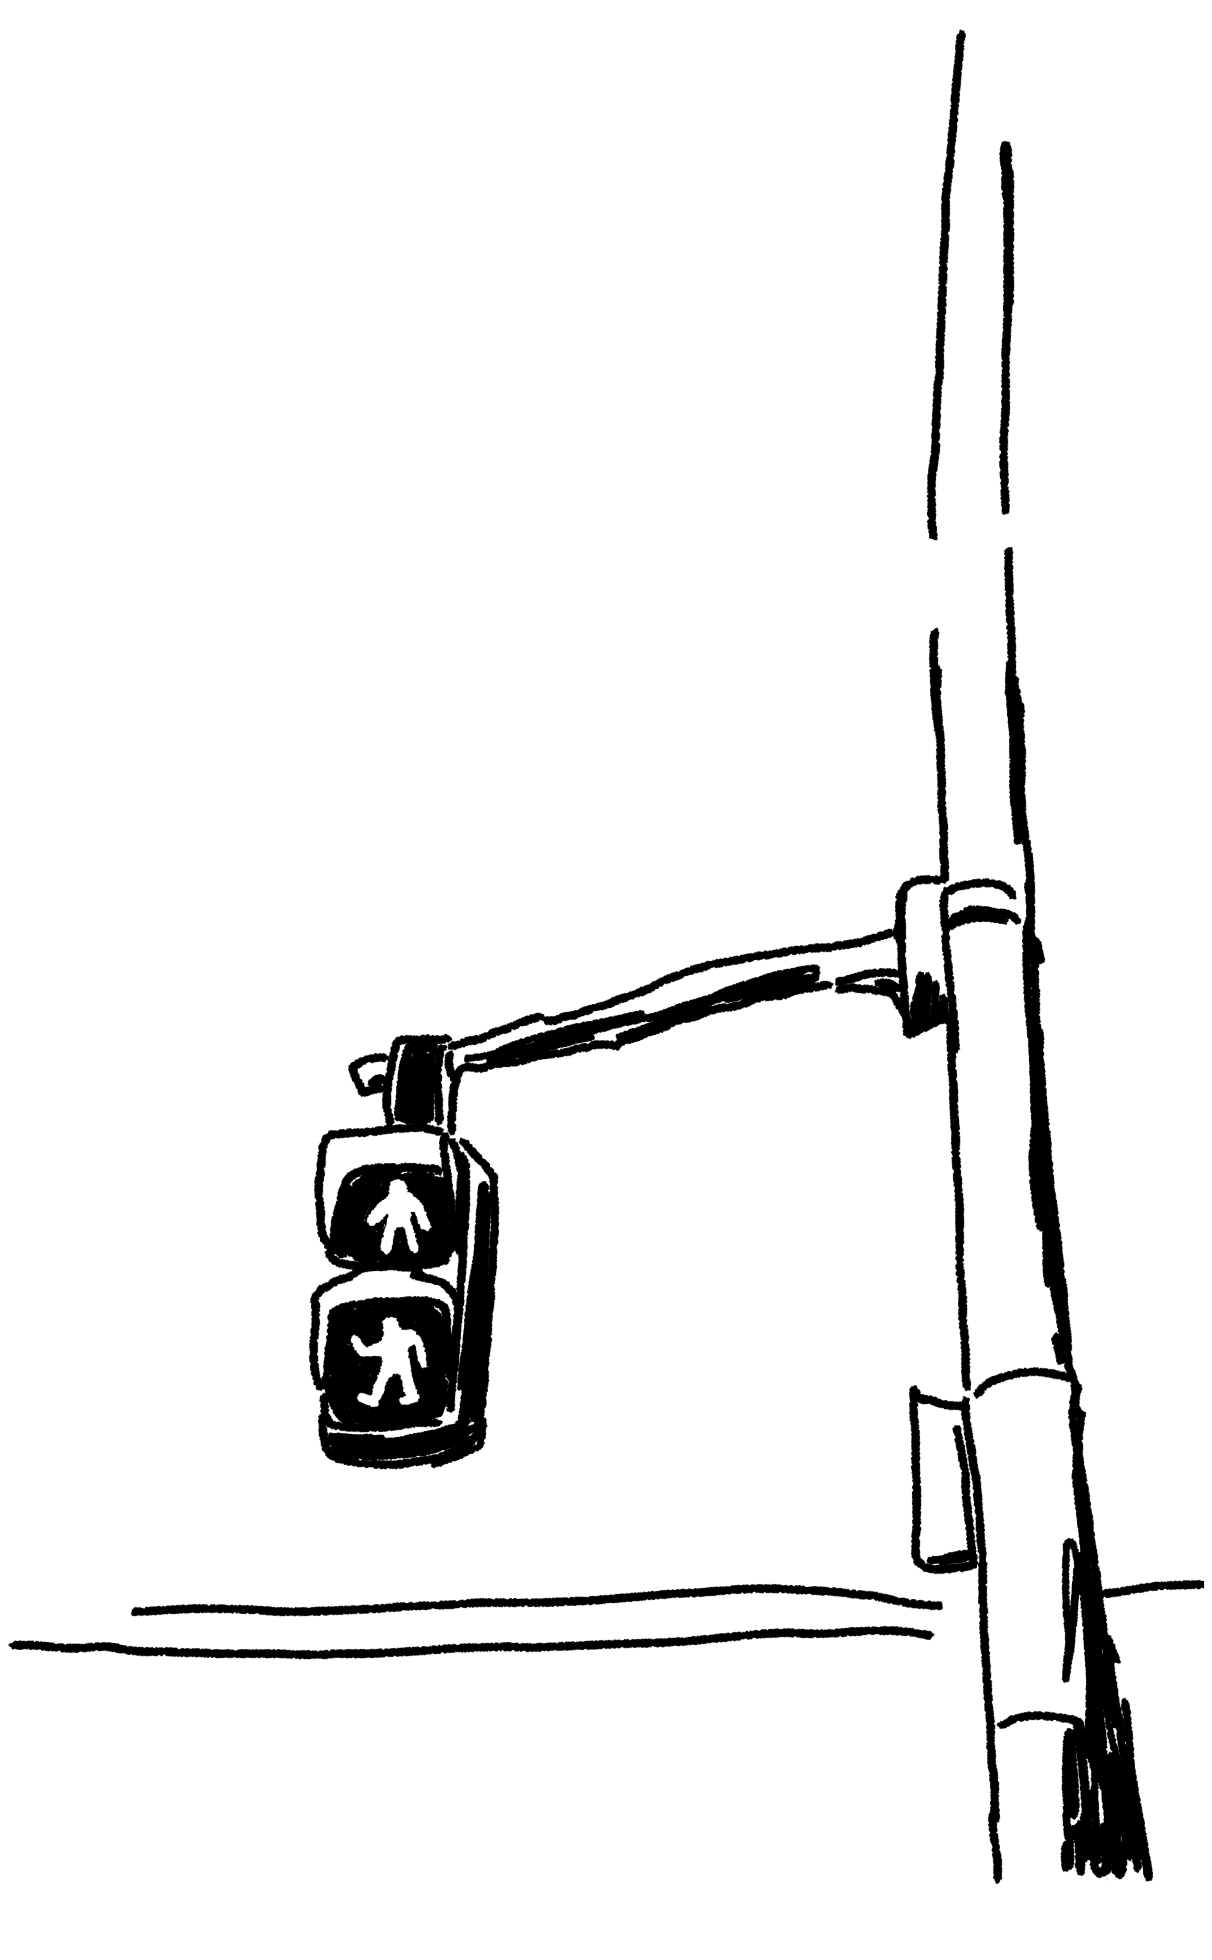
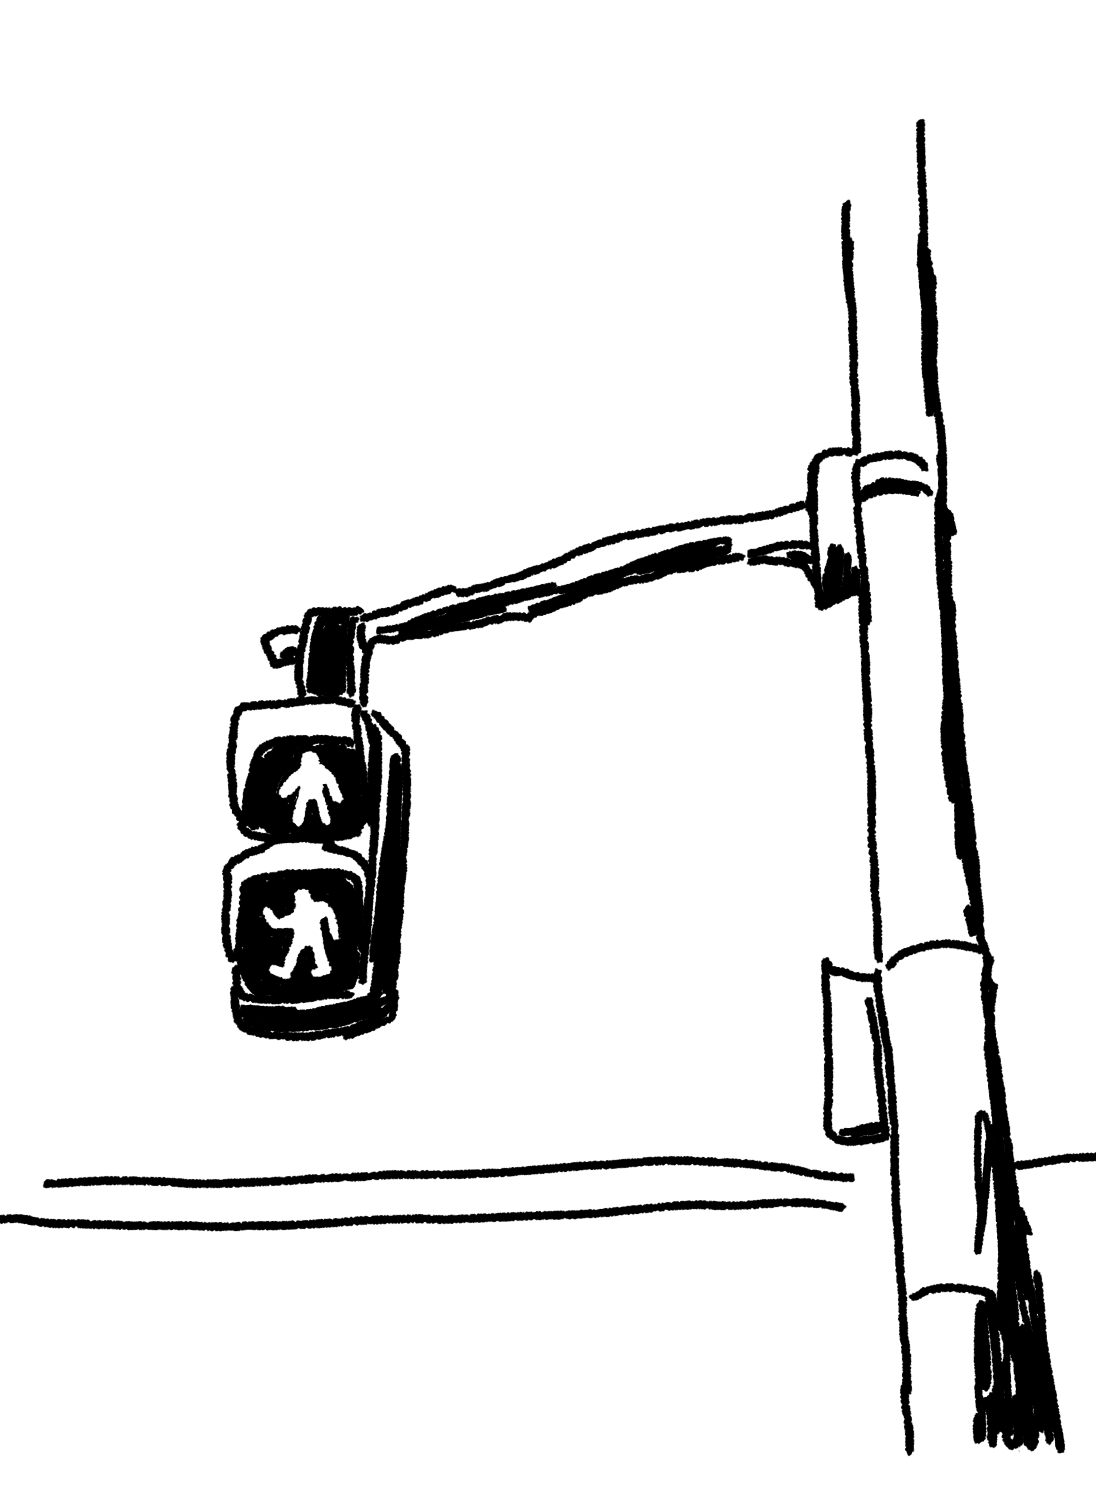
scroll animation

Changed region(s): [[0.0, 0.0, 1.0, 0.984]]

diff --git a/index.js b/index.js
@@ -1,60 +1,44 @@
 
 document.addEventListener("DOMContentLoaded", function () {
     initInteractivePanels();
+    window.addEventListener("scroll", function () {
+        for(let interaction of interactions) {
+            updateInteraction(interaction);
+        }
+    });
 });
 
+let interactions;
+
 function getInteractivePanels() {
-    return document.querySelectorAll("[data-px]");
+    return document.querySelectorAll("[data-x]");
 }
 
 function initInteractivePanels() {
-    getInteractivePanels().forEach(function (panel) {
-        let parent = panel.parentElement;
+    interactions = [];
+    getInteractivePanels().forEach((panel) => {
         let axis = [
-            parseInt(panel.getAttribute("data-axisx")),
-            parseInt(panel.getAttribute("data-axisy"))
+            parseInt(panel.getAttribute("data-x")) || 0,
+            parseInt(panel.getAttribute("data-y")) || 0,
+            parseInt(panel.getAttribute("data-z")) || 0
         ];
-        let center = [
-            parseInt(panel.getAttribute("data-px")),
-            parseInt(panel.getAttribute("data-py"))
-        ];
-        let movement = [0,0];
-        let lastPosition = [0, 0];
 
-        panel.addEventListener("touchmove", function (e) {
-            movement[0] = e.touches[0].clientX - lastPosition[0];
-            movement[1] = e.touches[0].clientY - lastPosition[1];
-            lastPosition = [e.touches[0].clientX, e.touches[0].clientY];
-
-            movePanel(panel, movement, axis, center);
+        interactions.push({
+            parent: panel.parentElement,
+            panel: panel,
+            axis: axis
         });
     });
 }
 
-// move panel around th axis, which is located along the center
-function movePanel(panel, vector, axis, center) {
-    let vectorToCenter = [
-        center[0] - vector[0],
-        center[1] - vector[1]
-    ];
+function updateInteraction(interaction) {
 
-    panel.style.transform = "rotate3d(" + axis[0] + ", " + axis[1] + ", 0, " + scaleVectorToRotation(panel.height, vectorToCenter, axis) + "deg)";
-}
+    let max = window.innerHeight / 2;
+    let now = max - ((interaction.parent.getBoundingClientRect().bottom + 10) - window.innerHeight / 2)
 
-function vectorLength(vector) {
-    return Math.sqrt(vector[0] * vector[0] + vector[1] * vector[1]);
-}
-
-function project(vector, axis) {
-    let axisLength = vectorLength(axis);
-    if (axisLength === 0) return 0;
-    let dotProduct = vector[0] * axis[0] + vector[1] * axis[1];
-    return dotProduct / axisLength;
-}
-
-function scaleVectorToRotation(max, vector, axis) {
-    let projectedDistance = project(vector, axis);
-    let len = vectorLength(projectedDistance);
-    if (len === 0) return 0;
-    return projectedDistance * 180 / max;
+    if(now > 0 && now < max) {
+        let angle = 180 * now / max;
+        console.log(angle);
+        interaction.panel.style.transform = `rotate3D(${interaction.axis[0]}, ${interaction.axis[1]}, ${interaction.axis[2]}, ${angle}deg)`;
+    }
 }

diff --git a/index.html b/index.html
@@ -40,14 +40,16 @@
             <img src="assets/28.png" width="1077" height="1242" alt="Panel 28">
             <img src="assets/29.png" width="1077" height="1242" alt="Panel 29">
         </div>
+        <div style="height: 20rem"></div>
         <div>
             <img src="assets/30.png" width="1200" height="1830" alt="Panel 30">
-            <img src="assets/30b.png" width="1200" height="1830" alt="Panel 30b" data-px="40" data-py="80" data-axisx="1" data-axisy="0">
+            <img src="assets/30b.png" width="1200" height="1830" alt="Panel 30b" style="transform-origin: 50% 35%" data-x="1" data-y="0" data-z="0">
         </div>
         <div>
-            <img src="assets/31.png" width="1212" height="1960" alt="Panel 31">
-            <img src="assets/31b.png" width="1212" height="1960" alt="Panel 31b" data-px="40" data-py="80" data-axisx="1" data-axisy="0">
+            <img src="assets/31.png" width="1096" height="1496" alt="Panel 31">
+            <img src="assets/31b.png" width="1096" height="1496" alt="Panel 31b" style="transform-origin: 28% 57.75%" data-x="0" data-y="0" data-z="1">
         </div>
+        <div style="height: 600px"></div>
     </main>
 </body>
 </html>

diff --git a/index.css b/index.css
@@ -8,7 +8,7 @@ main > div {
     position: relative;
 }
 
-main > div > [data-px] {
+main > div > [data-x] {
     position: absolute;
     top: 0;
     left: 0;
